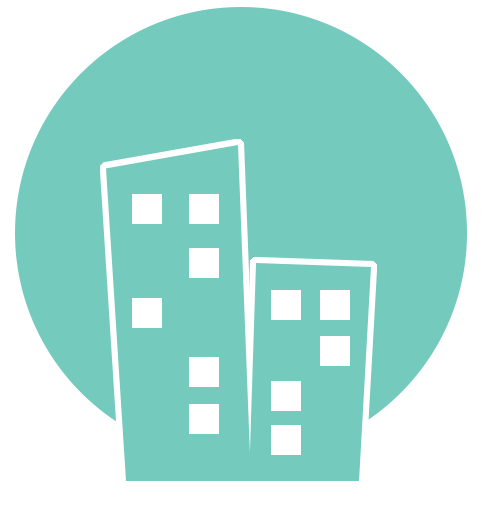
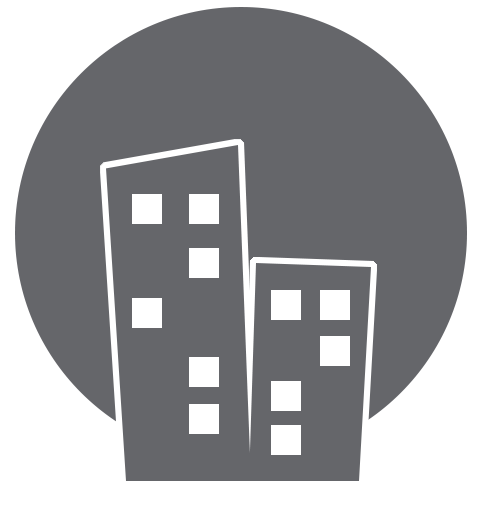
Changes Made to Building Dashboard
Color changes made to match new color scheme

diff --git a/ClassPathMobile/index.html b/ClassPathMobile/index.html
@@ -1768,11 +1768,15 @@
         		</div>	
 			</div>
     		<div class="row">
-    			<div class="small-4 columns">
-   	    			<img class="garbageDay1" src="img/garbageMondayIcon.png" alt="garbageDay_Monday"> 
+    			<div class="small-4 small-push-2 columns">
+   	    			<div class="garbageCircle">
+                  <p class="garbageDay">MONDAY</p>
+              </div> 
         		</div>
-        		<div class="small-4 columns">
-   	    			<img class="garbageDay2" src="img/garbageWednesdayIcon.png" alt="garbageDay_Monday"> 
+        		<div class="small-4 small-pull-2 columns">
+   	    			<div class="garbageCircle">
+                  <p class="garbageDay">WEDNESDAY</p>
+              </div> 
         		</div>
     		</div>
     </div><!--End Content-->
@@ -1827,7 +1831,9 @@
 				</div>
     			<div class="row">
     				<div class="small-4 small-centered columns">
-   	    				<img class="housekeepingDay" src="img/housekeepingTuesdayIcon.png" alt="garbageDay_Monday"> 
+   	    				<div class="garbageCircle">
+                  <p class="garbageDay">TUESDAY</p>
+              </div>  
         			</div>
     			</div>
     	</div><!--End Content-->

diff --git a/ClassPathMobile/css/main.css b/ClassPathMobile/css/main.css
@@ -1166,7 +1166,7 @@ input[type=checkbox] {
 
 .dashBoardHeaderBuilding
 {
-	color: #74cabd;
+	color: #e31d1a;
 	font-size: 2.2em;
 	text-align: center;
 	line-height: 40px;
@@ -1613,7 +1613,7 @@ input[type=text].generalRequests
 
 .garbageContent
 {
-	background-color: #74cabd;
+	background-color: #ebebeb;
 	height: 198px;
 	width: 100%;
 	text-align: center;
@@ -1622,24 +1622,27 @@ input[type=text].generalRequests
 .garbageDescription
 {
 	font-size: 1.1em;
-	color: #FFF;
+	color: #65666a;
 	height: 168px;
 	margin-top: 10px;
 }
 
-.garbageDay1
+.garbageCircle
 {
+	border: solid 4px #65666a;
+	border-radius: 50px;
+	height: 75px;
+	width: 75px;
 	margin-top: 20px;
-	margin-bottom: 20px;
-	margin-left: 50px;
 }
 
-.garbageDay2
+.garbageDay
 {
-	margin-top: 20px;
-	margin-bottom: 20px;
-	margin-left: -50px;
+	font-size: 0.7em;
+	text-align: center;
+	margin-top: 25px;
 }
+
 
 .currentPage2:after {
     content: "";
